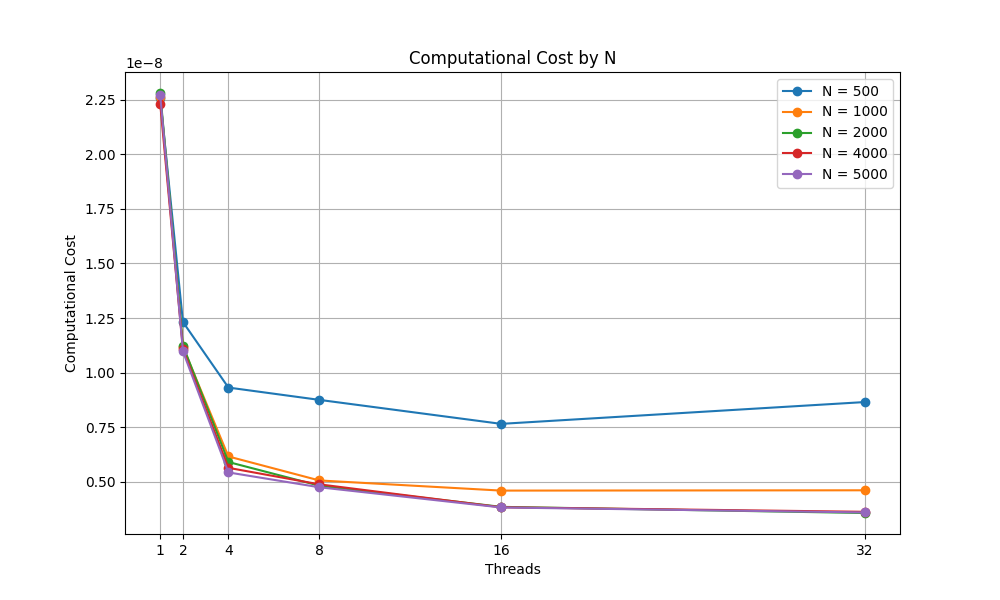
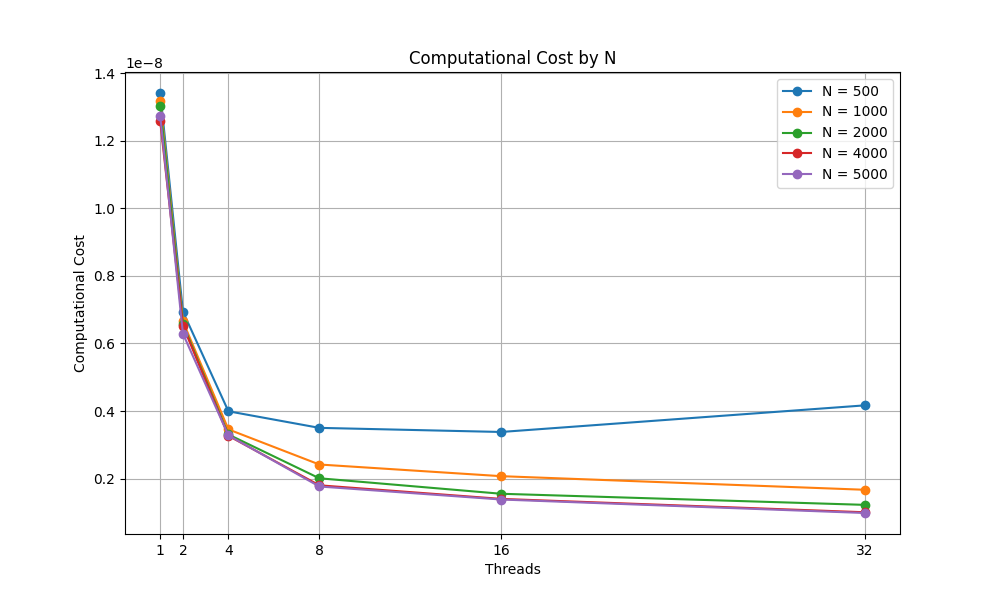
updated metrics on i9 13900k for report/presentation

diff --git a/times.py b/times.py
@@ -44,7 +44,7 @@ for N in N_list:
     for threads in threads_list:
         bodies.set_all(pos[:,0], pos[:,1], pos[:,2], vel[:,0], vel[:,1], vel[:,2], mass)
 
-        duration = nbody.benchmark_threaded(bodies, DT, G, threads, 100)
+        duration = nbody.benchmark_omp(bodies, DT, G, threads, 100)
         count += 1
 
         percentage_bar(count, int(len(N_list)*len(threads_list)), N)

diff --git a/times_plotting.py b/times_plotting.py
@@ -3,7 +3,7 @@ import pandas as pd
 import matplotlib.pyplot as plt
 
 df = pd.read_csv("times.csv")
-file = "Thread_Metrics"
+file = "OpenMP_Metrics"
 
 #Threads vs Speedup Plot
 plt.figure(figsize=(10,6))
